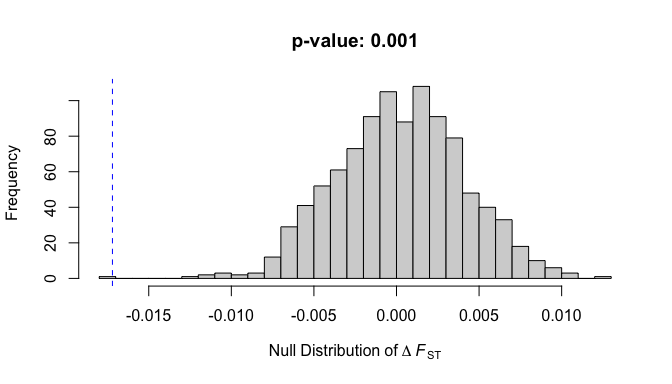
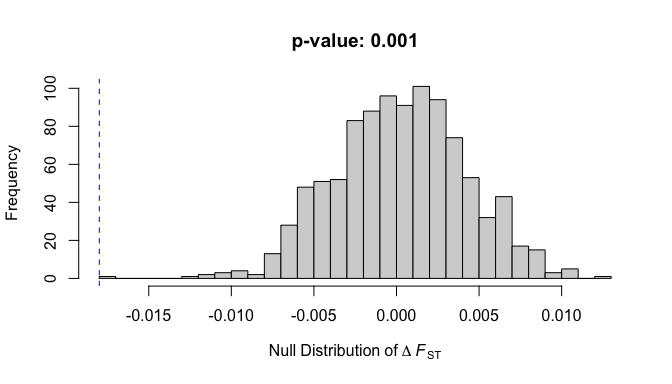
edits

diff --git a/Puyallup-conservation-measures.md b/Puyallup-conservation-measures.md
@@ -1,6 +1,6 @@
 Statistical Hypothesis Test for Hybridization w/ Introgression
 ================
-Tyler McCraney
+Tyler McCraney, Northwest Indian Fisheries Commission
 
 This is an exploratory analysis of one idea I have for a statistical
 hypothesis test for hybridization w/ introgression of White River spring
@@ -59,7 +59,7 @@ would produce FST estimates with high stochastic error in order to
 demonstrate how the statistical hypothesis test works. In practice,
 large sample sizes and many loci are used.
 
-First we import Chinook salmon genotypes from Van Doornick et al. 2024,
+First we import Chinook salmon genotypes from Van Doornik et al. 2024,
 filter the White River and Puyallup River samples, edit the sample
 labels, and convert the format so we can estimate FST with `pegas`.
 
@@ -128,7 +128,8 @@ Now lets estimate FST from data at these 2 simulated timepoints. FST is
 estimated for each locus independently, so we’ll get n=94 FST estimates.
 Some of these estimates will be `NA` just by chance, since there are
 loci with very low minor allele frequencies, they will likely be fixed
-in the simulated datasets. They are actually FST = 0 so lets fix that.
+in the simulated datasets. They are actually FST = 0 but they appear in
+the results as `NaN`.
 
 ``` r
 Fst_A <- 
@@ -139,15 +140,23 @@ Fst_B <-
   Fst(B)[, 2] |> 
   as.double()
 
-Fst_A[is.na(Fst_A)] <- 
-  0
-
-Fst_B[is.na(Fst_B)] <- 
-  0
+Fst_A[is.na(Fst_A)] |> 
+  length()
 ```
 
-There were 5 SNPs fixed in the “A” data and 4 in the “B” data, and I set
-those to all to 0.
+    ## [1] 5
+
+``` r
+Fst_B[is.na(Fst_B)] |> 
+  length()
+```
+
+    ## [1] 4
+
+There are 5 SNPs fixed in the “A” data and 4 in the “B” data. Originally
+I had set those to all to 0, but then I realized that would introduce
+bias in the estimate so I leave them in, and they are excluded in
+summary statistics (i.e., they have no effect).
 
 Now let’s take the mean of the two independent n=94 FST estimates to get
 the overall FST for sample A and sample B.
@@ -156,13 +165,13 @@ the overall FST for sample A and sample B.
 mean(Fst_A, na.rm=TRUE)
 ```
 
-    ## [1] 0.0248826
+    ## [1] 0.0262805
 
 ``` r
 mean(Fst_B, na.rm=TRUE)
 ```
 
-    ## [1] 0.01788871
+    ## [1] 0.01868376
 
 These FSTs are different just by chance alone. Let’s plot the
 distributions with the mean FST annotated below the x-axis labels and
@@ -188,7 +197,7 @@ at 2 different timepoints: ∆FST.
 mean(Fst_B, na.rm=TRUE) - mean(Fst_A, na.rm=TRUE)
 ```
 
-    ## [1] -0.006993888
+    ## [1] -0.007596733
 
 This is negative (by design), to simulate a noticible decrease of
 genetic differentiation between White R and Puyallup River that might be
@@ -236,7 +245,7 @@ par(mfrow=c(1, 1))
 mean(abs(c(permuteAB, obsAB)) >= abs(obsAB))
 ```
 
-    ## [1] 0.2097902
+    ## [1] 0.1898102
 
 ``` r
 hist(c(permuteAB, obsAB), xlab=expression(Null~Distribution~of~Delta~italic(F)[ST]), breaks=30, main=paste("p-value:", mean(abs(c(permuteAB, obsAB)) >= abs(obsAB)) |> round(digits=5)))
@@ -290,9 +299,9 @@ Fst_C[is.na(Fst_C)] <-
 mean(Fst_A, na.rm=TRUE); mean(Fst_B, na.rm=TRUE); mean(Fst_C, na.rm=TRUE)
 ```
 
-    ## [1] 0.0248826
+    ## [1] 0.0262805
 
-    ## [1] 0.01788871
+    ## [1] 0.01868376
 
     ## [1] 0.0006900401
 
@@ -334,7 +343,7 @@ obsBC <-
 obsBC
 ```
 
-    ## [1] -0.01719867
+    ## [1] -0.01799372
 
 We see our observed test statistic above (`∆FST = -0.018`) indicating a
 big decrease in FST. We compute the non-parametric “p-value” as in the

diff --git a/ancestry-models3.md b/ancestry-models3.md
@@ -1,6 +1,6 @@
 Ancestry Model for Classifying White River Spring Chinook Salmon
 ================
-Tyler McCraney
+Tyler McCraney, Northwest Indian Fisheries Commission
 
 This is the 3rd version of the (NOR + baseline) ancestry modeling
 analysis. It is very similar to the [2nd

diff --git a/delta-fst-white-gro.md b/delta-fst-white-gro.md
@@ -1,6 +1,6 @@
 ∆FST White River NORs 2021-2026 vs Green River Origin Fall
 ================
-Tyler McCraney
+Tyler McCraney, Northwest Indian Fisheries Commission
 
 #### Green River origin (GRO) fall-run Chinook salmon in DFW genetic baseline.
 

diff --git a/ancestry-models.md b/ancestry-models.md
@@ -1,6 +1,6 @@
 Ancestry Model for Classifying White River Spring Chinook Salmon
 ================
-Tyler McCraney
+Tyler McCraney, Northwest Indian Fisheries Commission
 
 #### Genetic Management of White River Spring (WRS) Chinook Salmon
 

diff --git a/ancestry-models2.md b/ancestry-models2.md
@@ -1,6 +1,6 @@
 Ancestry Model for Classifying White River Spring Chinook Salmon
 ================
-Tyler McCraney
+Tyler McCraney, Northwest Indian Fisheries Commission
 
 #### Genetic Management of White River Spring (WRS) Chinook Salmon
 

diff --git a/run-timing-genetics.md b/run-timing-genetics.md
@@ -1,6 +1,6 @@
 Exploratory Analysis of Run Timing Genetics
 ================
-Tyler McCraney
+Tyler McCraney, Northwest Indian Fisheries Commission
 
 ![](run-timing-genetics_files/figure-gfm/unnamed-chunk-2-1.png)<!-- -->
 

diff --git a/delta-fst-white-gro2.md b/delta-fst-white-gro2.md
@@ -1,6 +1,6 @@
 ∆FST White River NORs 2021-2026 vs Green River Origin Fall (2nd Version)
 ================
-Tyler McCraney
+Tyler McCraney, Northwest Indian Fisheries Commission
 
 ``` r
 library(tidyverse)

diff --git a/delta-fst-white-gro3.md b/delta-fst-white-gro3.md
@@ -1,7 +1,7 @@
 
 # $\Delta{F}_{ST}$ White River NORs 2021-2026 vs Green River Origin Fall (3rd Version)
 
-Tyler McCraney.
+Tyler McCraney, Northwest Indian Fisheries Commission
 
 ### Removed 1 SNP
 
